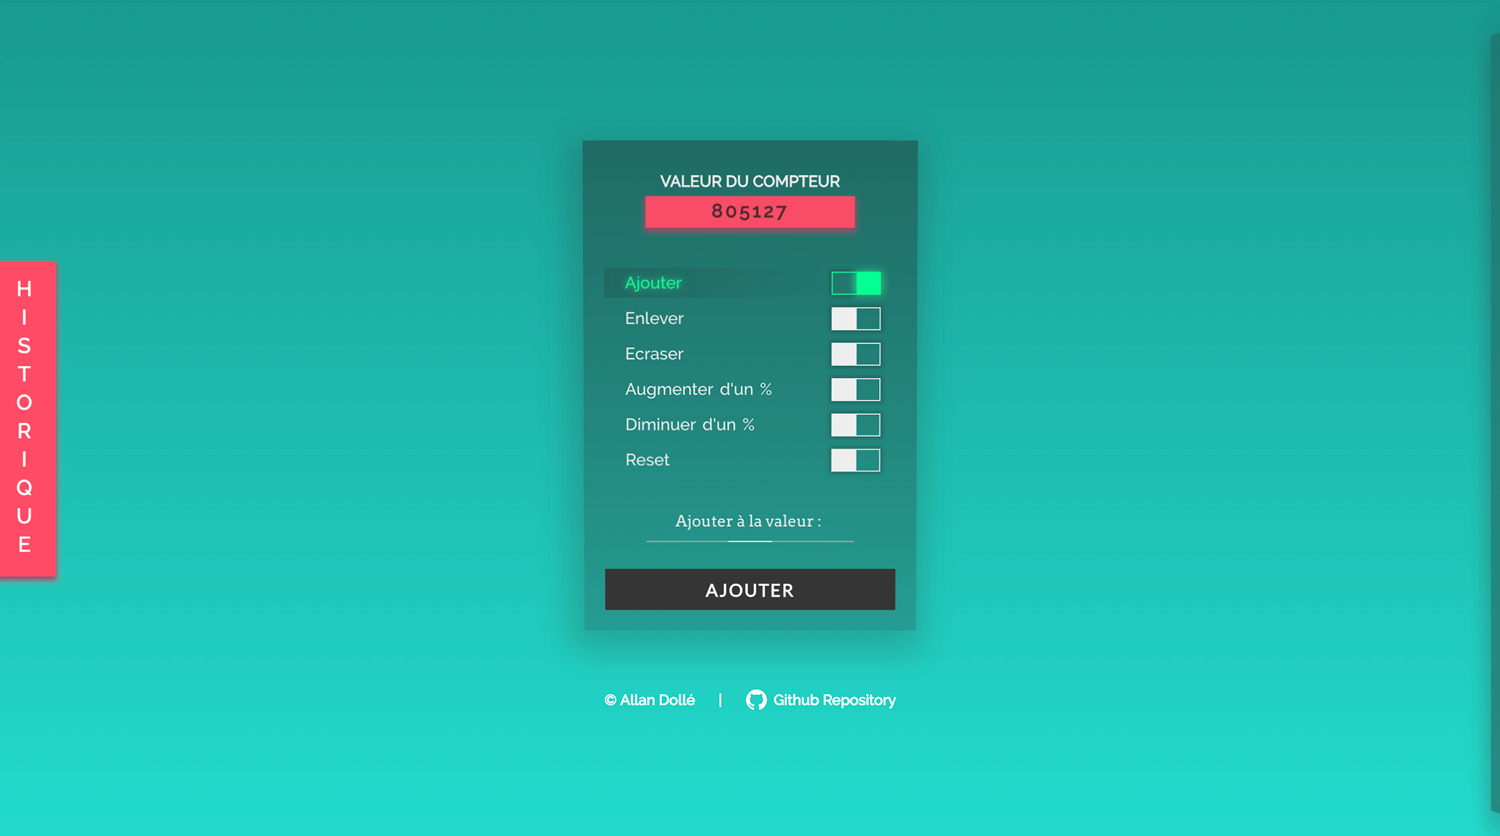
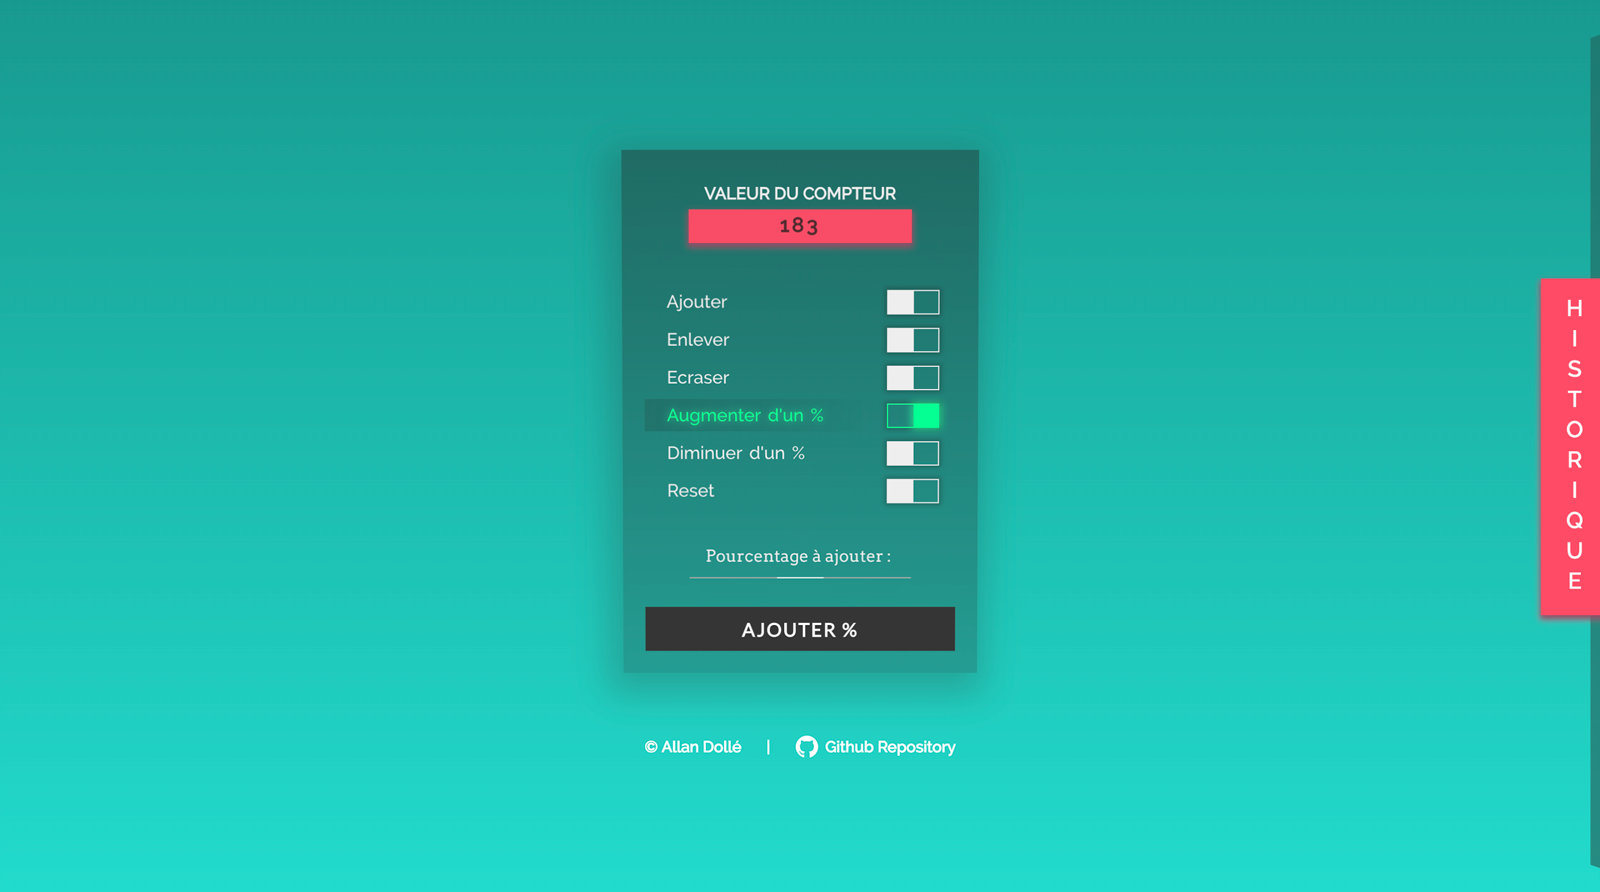
Update readme & CSS and JS improvement for Log pannel

diff --git a/edit/index.css b/edit/index.css
@@ -343,9 +343,10 @@ input[type=radio]:checked ~ label{
 }
 .logger {
   margin: 0px;
+  padding: 0px;
   box-sizing: border-box;
   background-image: linear-gradient(rgba(20, 20, 20, 0.25), rgba(20, 20, 20, 0.4));
-  box-shadow: -4px 10px 50px 10px rgba(20, 20, 20, 0.2);
+  box-shadow: none;
   position: fixed;
   height: auto;
   max-height: 100vh;
@@ -361,14 +362,14 @@ input[type=radio]:checked ~ label{
 .pin {
   position: absolute;
   top: 50%;
-  left: 0;
+  right: 0;
   width: 60px;
   height: auto;
   background-color: rgba(255, 76, 102, 1);
   transform: translate3d(0, -50%, 20px);
   z-index: 100;
   box-shadow: 0 3px 7px 1px rgba(150, 76, 102, 0.97);
-  transition: all 0.27s ease-out;
+  transition: all 0.8s ease-out;
   writing-mode: vertical-lr;
   text-orientation: upright;
   text-transform: uppercase;
@@ -377,8 +378,16 @@ input[type=radio]:checked ~ label{
   line-height: 30px;
   letter-spacing: 3px;
 }
+@keyframes hiding {
+  0% {
+    transform: translate3d(0, -50%, 20px);
+  }
+  100% {
+    transform: translate3d(46px, -50%, 10px);
+  }
+}
 .pin:hover {
-  transform: translate3d(3px, -50%, 10px);
+  animation: hiding 0.27s 0s forwards alternate ease-in;
 }
 .pin:hover + .logger, .logger:hover {
   transform: translateX(0);
@@ -399,7 +408,7 @@ input[type=radio]:checked ~ label{
 }
 .log {
   display: block;
-  margin: 0;
+  margin: 15px 20px 0px 20px;
   padding: 0;
   font-size: 12px;
   width: 280px;
@@ -409,11 +418,16 @@ input[type=radio]:checked ~ label{
 .title {
   text-align: center;
   font-size: 20px;
-  margin-bottom: 10px;
+  margin-bottom: 20px;
+  font-family: 'Raleway';
+  font-weight: bold;
+  font-size: 15px;
+  color: #EEEEEE;
+  text-transform: uppercase;
 }
 .line {
   background-color: rgba(20, 20, 20, 0.3);
-  margin: 2px 0;
+  margin: 0px 20px 0px 20px;
   text-align: left;
   padding: 10px;
   border-radius: 3px;

diff --git a/edit/index.js b/edit/index.js
@@ -2,6 +2,8 @@ var radios = document.getElementsByClassName('params');
 var input = document.getElementById('input');
 var submit = document.getElementById('submit');
 var audio = document.getElementById('audio');
+var pin = document.getElementsByClassName('pin');
+var logger = document.getElementsByClassName('logger');
 
 input.classList.add("show");
 audio.autoplay = false;
@@ -16,6 +18,13 @@ input.onfocus = function() {
 input.onblur = function() {
   input.setAttribute('placeholder', input.getAttribute('data-oldplaceholder'))
 }
+logger[0].addEventListener('mouseover', function() {
+  pin[0].style.transform = 'translate3d(46px, -50%, 10px)';
+  // pin[0].style.opacity = 0;
+});
+logger[0].addEventListener('mouseleave', function() {
+  pin[0].style.transform = 'translate3d(0, -50%, 20px)';
+});
 
 function autoType(element, typingSpeed, delay) {
   var selector = element;

diff --git a/README.md b/README.md
@@ -24,6 +24,8 @@ This repo let you **show custom number** in your [custom smiirl counter](http://
 <p align="center">
 <img src="https://github.com/blephy/custom-smiirl-counter-api/blob/master/screenshot.png" alt="User Interface of this project"/>
 <br>
+<p align="center">
+<img src="https://github.com/blephy/custom-smiirl-counter-api/blob/master/screenshot-log-pannel.png" alt="User Interface of this project with the log pannel"/>
 <br>
 <a href="//allandolle.fr/custom-smiirl-counter-api" title="Demo Custom Smiirl Counter API">Demo API</a>
 <br>
